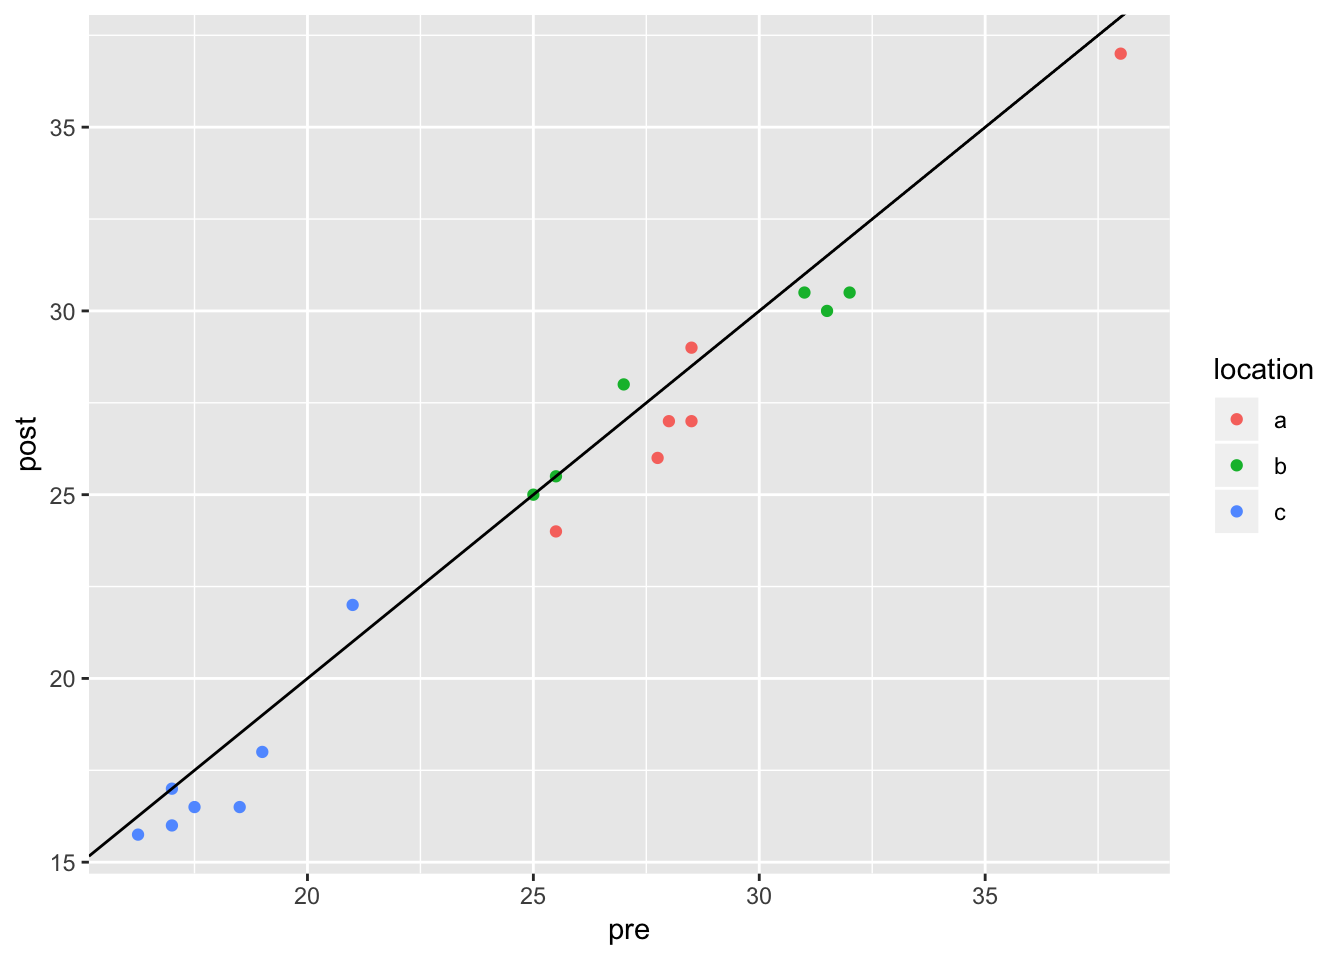
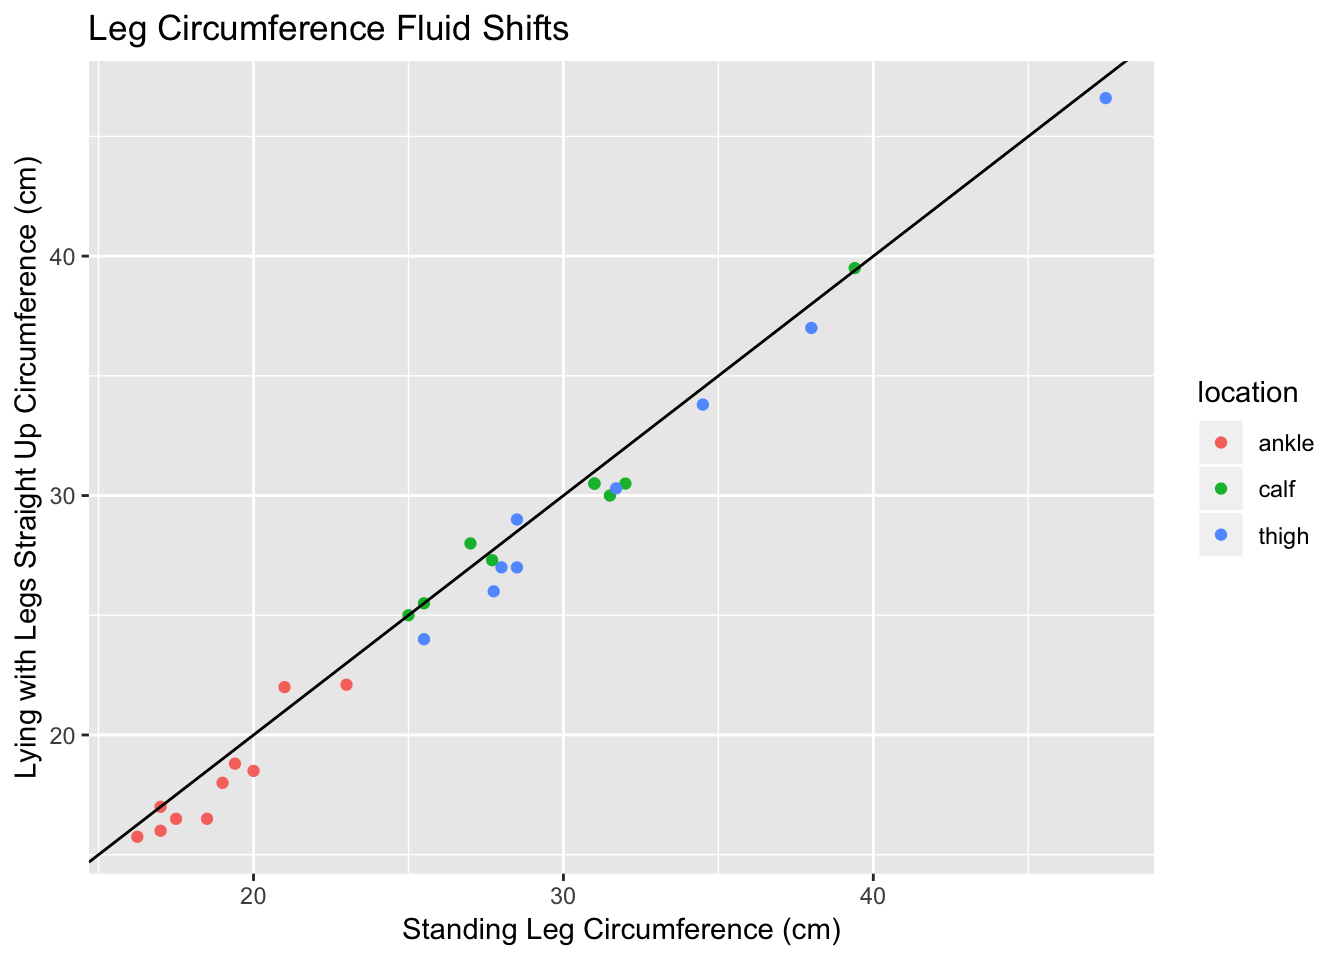
update with new astronaut data

diff --git a/2018/08/25/astronaut-fluid-shift-experiment/index.html b/2018/08/25/astronaut-fluid-shift-experiment/index.html
@@ -8,10 +8,10 @@
   <title>Astronaut Fluid Shift Experiment</title>
   <meta property="og:title" content="Astronaut Fluid Shift Experiment" />
   <meta name="twitter:title" content="Astronaut Fluid Shift Experiment" />
-  <meta name="description" content="Today I ran an experiment with the students in my daughter’s First Lego League team. It was meant to demonstrate how fluid shifts in space. The kids measured their leg circumference at 3 different spots after standing for 10 minutes. They lay with their legs in the air for 10 more minutes and then re-measured the circumference.
+  <meta name="description" content="Today I ran an experiment with the students in my daughter’s First Lego League team. It was meant to demonstrate how fluid shifts in space. The kids measured their leg circumference at 3 different spots after standing for 10 minutes. They lay with their legs propped up in the air for 10 more minutes and then re-measured the circumference.
 The inspiration for this activity came from the NASA website.
 library(googlesheets) suppressPackageStartupMessages(library(dplyr)) library(ggplot2) library(tidyr) my_sheets &lt;- gs_ls() fb &lt;- gs_title(&quot;get_a_leg_up&quot;) ## Sheet successfully identified: &quot;get_a_leg_up&quot; x &lt;- gs_read(fb) ## Accessing worksheet titled &#39;Sheet1&#39;.">
-  <meta property="og:description" content="Today I ran an experiment with the students in my daughter’s First Lego League team. It was meant to demonstrate how fluid shifts in space. The kids measured their leg circumference at 3 different spots after standing for 10 minutes. They lay with their legs in the air for 10 more minutes and then re-measured the circumference.
+  <meta property="og:description" content="Today I ran an experiment with the students in my daughter’s First Lego League team. It was meant to demonstrate how fluid shifts in space. The kids measured their leg circumference at 3 different spots after standing for 10 minutes. They lay with their legs propped up in the air for 10 more minutes and then re-measured the circumference.
 The inspiration for this activity came from the NASA website.
 library(googlesheets) suppressPackageStartupMessages(library(dplyr)) library(ggplot2) library(tidyr) my_sheets &lt;- gs_ls() fb &lt;- gs_title(&quot;get_a_leg_up&quot;) ## Sheet successfully identified: &quot;get_a_leg_up&quot; x &lt;- gs_read(fb) ## Accessing worksheet titled &#39;Sheet1&#39;.">
   <meta name="twitter:description" content="Today I ran an experiment with the students in my daughter’s First Lego League team. It was meant to demonstrate how fluid shifts in space. The kids measured their leg circumference at 3 different …">
@@ -196,7 +196,7 @@ library(googlesheets) suppressPackageStartupMessages(library(dplyr)) library(ggp
   <div class="row">
     <div class="col-lg-8 col-lg-offset-2 col-md-10 col-md-offset-1">
       <article role="main" class="blog-post">
-        <p>Today I ran an experiment with the students in my daughter’s First Lego League team. It was meant to demonstrate how fluid shifts in space. The kids measured their leg circumference at 3 different spots after standing for 10 minutes. They lay with their legs in the air for 10 more minutes and then re-measured the circumference.</p>
+        <p>Today I ran an experiment with the students in my daughter’s First Lego League team. It was meant to demonstrate how fluid shifts in space. The kids measured their leg circumference at 3 different spots after standing for 10 minutes. They lay with their legs propped up in the air for 10 more minutes and then re-measured the circumference.</p>
 <p>The inspiration for this activity came from <a href="https://www.nasa.gov/audience/foreducators/topnav/materials/listbytype/Get_a_Leg_Up_Activity.html">the NASA website</a>.</p>
 <pre class="r"><code>library(googlesheets)
 suppressPackageStartupMessages(library(dplyr))
@@ -215,75 +215,75 @@ fb &lt;- gs_title(&quot;get_a_leg_up&quot;)</code></pre>
 ##   circum = col_double()
 ## )</code></pre>
 <pre class="r"><code>x$student &lt;- factor(x$student)
+x$location[which(x$location == &quot;a&quot;)] &lt;- &quot;thigh&quot;
+x$location[which(x$location == &quot;b&quot;)] &lt;- &quot;calf&quot;
+x$location[which(x$location == &quot;c&quot;)] &lt;- &quot;ankle&quot;
 x$location &lt;- factor(x$location)
 x$pre_post &lt;- factor(x$pre_post, levels = c(&quot;pre&quot;, &quot;post&quot;))
 x &lt;- tbl_df(x)</code></pre>
-<p>There were 7 kids today, and their pre and post measurements are plotted below against an identity line.</p>
+<p>There were 7 kids in the inital group and 2 more kids and me in a second session. Pre and post measurements are plotted below against an identity line.</p>
 <pre class="r"><code>x %&gt;% spread(pre_post, circum) %&gt;%
   ggplot(aes(x = pre, y = post, color = location)) + 
   geom_point() + 
-  geom_abline(slope = 1)</code></pre>
+  geom_abline(slope = 1) +
+  ggtitle(&quot;Leg Circumference Fluid Shifts&quot;) +
+  xlab(&quot;Standing Leg Circumference (cm)&quot;) +
+  ylab(&quot;Lying with Legs Straight Up Circumference (cm)&quot;)</code></pre>
 <pre><code>## Warning: Removed 2 rows containing missing values (geom_point).</code></pre>
-<p><img src="../../../../post/2018-08-25-astronaut-fluid-shift-experiment_files/figure-html/unnamed-chunk-3-1.png" width="672" /></p>
-<p>I calculated the group means by location. There were a couple of missing observations.</p>
-<pre class="r"><code>x %&gt;% group_by(location, pre_post) %&gt;% 
-  summarise(mean_circ = mean(circum, na.rm = T), stdev = sd(circum, na.rm = T))</code></pre>
-<pre><code>## # A tibble: 6 x 4
-## # Groups:   location [?]
-##   location pre_post mean_circ stdev
-##   &lt;fct&gt;    &lt;fct&gt;        &lt;dbl&gt; &lt;dbl&gt;
-## 1 a        pre           28.6  4.48
-## 2 a        post          28.3  4.55
-## 3 b        pre           29.1  3.14
-## 4 b        post          28.2  2.50
-## 5 c        pre           18.0  1.61
-## 6 c        post          17.4  2.16</code></pre>
-<p>Then I ran paired t-tests on each location. It turned out that the only statistically significant location was location a (and that’s not significant if we use the Bonferroni correction for multiple comparisons).</p>
+<p><img src="../../../../post/2018-08-25-astronaut-fluid-shift-experiment_files/figure-html/unnamed-chunk-3-1.png" width="672" /> From this curve most dots were to the right of the identity line, a few were on the line, and a few were above it. There was a trend that the pre measurements were higher than the post measurements.</p>
+<p>Because of multiple comparisons, I computed the Bonferroni correction to be 0.05/3 or about 0.0167.</p>
+<p>I ran paired t-tests on each location. The thigh just above the knee demonstrated a significant difference of about 1 cm between the two positions.</p>
 <pre class="r"><code>loc_a &lt;- x %&gt;% 
-  filter(location == &quot;a&quot;, student != 5) %&gt;% 
+  filter(location == &quot;thigh&quot;, student != 5) %&gt;% 
   arrange(pre_post, student)
 t.test(circum ~ pre_post, data = loc_a, paired = TRUE)</code></pre>
 <pre><code>## 
 ##  Paired t-test
 ## 
 ## data:  circum by pre_post
-## t = 3.1398, df = 5, p-value = 0.02567
+## t = 4.6185, df = 8, p-value = 0.001714
 ## alternative hypothesis: true difference in means is not equal to 0
 ## 95 percent confidence interval:
-##  0.188832 1.894501
+##  0.5146123 1.5409433
 ## sample estimates:
 ## mean of the differences 
-##                1.041667</code></pre>
+##                1.027778</code></pre>
+<p>The calf did not demonstrate a significant difference between the two positions. The mean of the differences was 0.367 but this did not meet statistical significance. The reason for this might be because you can flex your calf and it might change in circumference.</p>
 <pre class="r"><code>loc_b &lt;- x %&gt;% 
-  filter(location == &quot;b&quot;, student != 5) %&gt;% 
+  filter(location == &quot;calf&quot;, student != 5) %&gt;% 
   arrange(pre_post, student)
 t.test(circum ~ pre_post, data = loc_b, paired = TRUE)</code></pre>
 <pre><code>## 
 ##  Paired t-test
 ## 
 ## data:  circum by pre_post
-## t = 1.0518, df = 5, p-value = 0.3411
+## t = 1.397, df = 8, p-value = 0.1999
 ## alternative hypothesis: true difference in means is not equal to 0
 ## 95 percent confidence interval:
-##  -0.6017005  1.4350339
+##  -0.2385832  0.9719165
 ## sample estimates:
 ## mean of the differences 
-##               0.4166667</code></pre>
+##               0.3666667</code></pre>
+<p>The ankle demonstrated a difference of about 0.75 cm between the two positions, but this was not a significant difference with the Bonferroni adjusted type 1 error rate of 0.0167.</p>
 <pre class="r"><code>loc_c &lt;- x %&gt;% 
-  filter(location == &quot;c&quot;) %&gt;% 
+  filter(location == &quot;ankle&quot;) %&gt;% 
   arrange(pre_post, student)
 t.test(circum ~ pre_post, data = loc_c, paired = TRUE)</code></pre>
 <pre><code>## 
 ##  Paired t-test
 ## 
 ## data:  circum by pre_post
-## t = 1.8, df = 6, p-value = 0.122
+## t = 2.8939, df = 9, p-value = 0.01777
 ## alternative hypothesis: true difference in means is not equal to 0
 ## 95 percent confidence interval:
-##  -0.2310399  1.5167542
+##  0.1637273 1.3362727
 ## sample estimates:
 ## mean of the differences 
-##               0.6428571</code></pre>
+##                    0.75</code></pre>
+<div id="discussion" class="section level2">
+<h2>Discussion</h2>
+<p>Leg circumference did appear to decrease when comparing lying down with legs up to a standing position. This was notable in the thigh only but not in the calf or ankle. The reason for the different results is hard to interpret but might include measurement error versus a different propensity of the tissues underlying these areas to swell or contract.</p>
+</div>
 
 
         

diff --git a/categories/r/index.html b/categories/r/index.html
@@ -188,7 +188,7 @@
               </p>
               <div class="post-entry">
                 
-                  Today I ran an experiment with the students in my daughter’s First Lego League team. It was meant to demonstrate how fluid shifts in space. The kids measured their leg circumference at 3 different spots after standing for 10 minutes. They lay with their legs in the air for 10 more minutes and then re-measured the circumference.
+                  Today I ran an experiment with the students in my daughter’s First Lego League team. It was meant to demonstrate how fluid shifts in space. The kids measured their leg circumference at 3 different spots after standing for 10 minutes. They lay with their legs propped up in the air for 10 more minutes and then re-measured the circumference.
 The inspiration for this activity came from the NASA website.
 library(googlesheets) suppressPackageStartupMessages(library(dplyr)) library(ggplot2) library(tidyr) my_sheets &lt;- gs_ls() fb &lt;- gs_title(&quot;get_a_leg_up&quot;) ## Sheet successfully identified: &quot;get_a_leg_up&quot; x &lt;- gs_read(fb) ## Accessing worksheet titled &#39;Sheet1&#39;.
                   <a href="../../2018/08/25/astronaut-fluid-shift-experiment/" class="post-read-more">[Read More]</a>

diff --git a/tags/experiment/index.html b/tags/experiment/index.html
@@ -188,7 +188,7 @@
               </p>
               <div class="post-entry">
                 
-                  Today I ran an experiment with the students in my daughter’s First Lego League team. It was meant to demonstrate how fluid shifts in space. The kids measured their leg circumference at 3 different spots after standing for 10 minutes. They lay with their legs in the air for 10 more minutes and then re-measured the circumference.
+                  Today I ran an experiment with the students in my daughter’s First Lego League team. It was meant to demonstrate how fluid shifts in space. The kids measured their leg circumference at 3 different spots after standing for 10 minutes. They lay with their legs propped up in the air for 10 more minutes and then re-measured the circumference.
 The inspiration for this activity came from the NASA website.
 library(googlesheets) suppressPackageStartupMessages(library(dplyr)) library(ggplot2) library(tidyr) my_sheets &lt;- gs_ls() fb &lt;- gs_title(&quot;get_a_leg_up&quot;) ## Sheet successfully identified: &quot;get_a_leg_up&quot; x &lt;- gs_read(fb) ## Accessing worksheet titled &#39;Sheet1&#39;.
                   <a href="../../2018/08/25/astronaut-fluid-shift-experiment/" class="post-read-more">[Read More]</a>

diff --git a/post/index.html b/post/index.html
@@ -188,7 +188,7 @@
               </p>
               <div class="post-entry">
                 
-                  Today I ran an experiment with the students in my daughter’s First Lego League team. It was meant to demonstrate how fluid shifts in space. The kids measured their leg circumference at 3 different spots after standing for 10 minutes. They lay with their legs in the air for 10 more minutes and then re-measured the circumference.
+                  Today I ran an experiment with the students in my daughter’s First Lego League team. It was meant to demonstrate how fluid shifts in space. The kids measured their leg circumference at 3 different spots after standing for 10 minutes. They lay with their legs propped up in the air for 10 more minutes and then re-measured the circumference.
 The inspiration for this activity came from the NASA website.
 library(googlesheets) suppressPackageStartupMessages(library(dplyr)) library(ggplot2) library(tidyr) my_sheets &lt;- gs_ls() fb &lt;- gs_title(&quot;get_a_leg_up&quot;) ## Sheet successfully identified: &quot;get_a_leg_up&quot; x &lt;- gs_read(fb) ## Accessing worksheet titled &#39;Sheet1&#39;.
                   <a href="../2018/08/25/astronaut-fluid-shift-experiment/" class="post-read-more">[Read More]</a>

diff --git a/index.html b/index.html
@@ -206,7 +206,7 @@
 
               <div class="post-entry">
                 
-                  Today I ran an experiment with the students in my daughter’s First Lego League team. It was meant to demonstrate how fluid shifts in space. The kids measured their leg circumference at 3 different spots after standing for 10 minutes. They lay with their legs in the air for 10 more minutes and then re-measured the circumference.
+                  Today I ran an experiment with the students in my daughter’s First Lego League team. It was meant to demonstrate how fluid shifts in space. The kids measured their leg circumference at 3 different spots after standing for 10 minutes. They lay with their legs propped up in the air for 10 more minutes and then re-measured the circumference.
 The inspiration for this activity came from the NASA website.
 library(googlesheets) suppressPackageStartupMessages(library(dplyr)) library(ggplot2) library(tidyr) my_sheets &lt;- gs_ls() fb &lt;- gs_title(&quot;get_a_leg_up&quot;) ## Sheet successfully identified: &quot;get_a_leg_up&quot; x &lt;- gs_read(fb) ## Accessing worksheet titled &#39;Sheet1&#39;.
                   <a href="./2018/08/25/astronaut-fluid-shift-experiment/" class="post-read-more">[Read More]</a>
